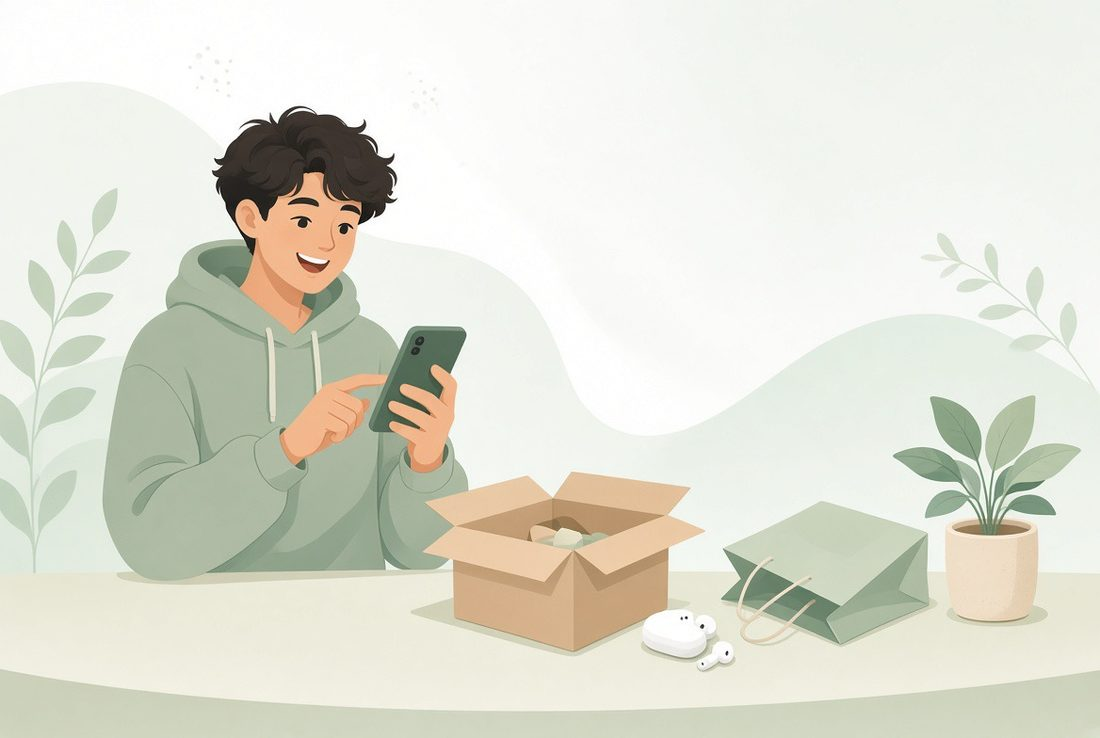
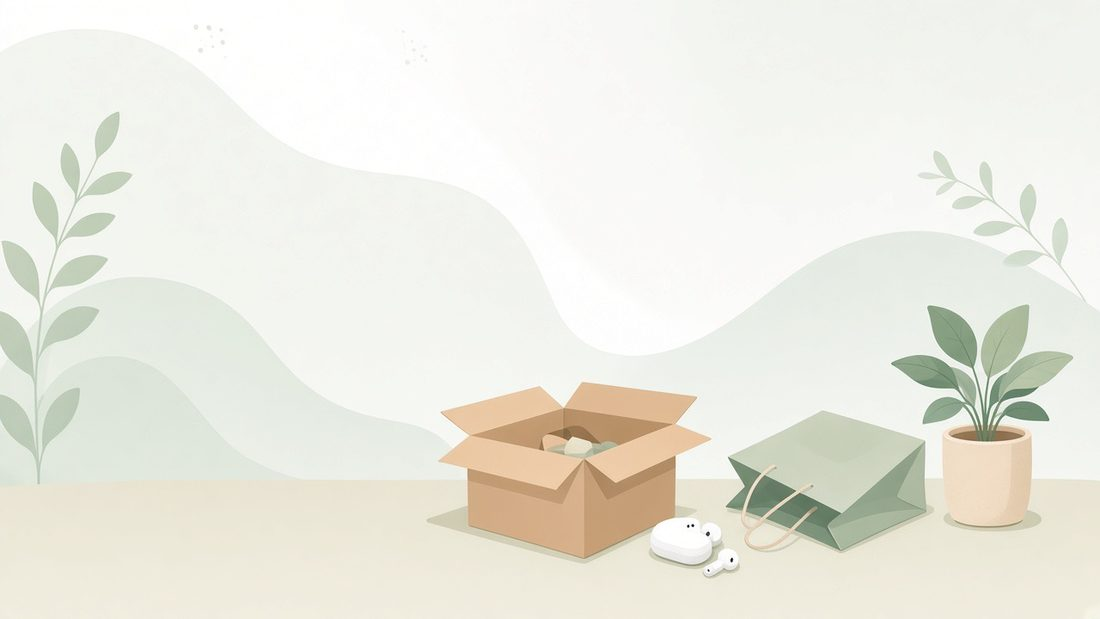
Картинка в призыве заменена
Новая: коробка, наушники, пакет и растение на столе, без человека.
Спокойнее прежней и не спорит с текстом.

Дымку слева сделал мягче — на этой картинке и так светлое поле, и
плотная подложка только гасила бы рисунок. Теперь она почти прозрачная
и лишь придерживает текст.

Весит тридцать килобайт вместо пятидесяти.

Changed region(s): [[0.0, 0.1228, 1.0, 1.0], [0.8345, 0.2456, 0.9891, 0.4604], [0.68, 0.706, 0.7109, 0.7367]]

diff --git a/frontend/src/styles.css b/frontend/src/styles.css
@@ -4195,7 +4195,7 @@ a.s-attrs{ display:block; }
      Раньше картинка масштабировалась по высоте, ширины не хватало, и
      половина блока оставалась пустой зеленью со швом посередине. */
   background:
-    linear-gradient(90deg, #E4F6EE 0%, rgba(228,246,238,.92) 42%, rgba(228,246,238,0) 72%),
+    linear-gradient(90deg, rgba(255,255,255,.82) 0%, rgba(255,255,255,.5) 38%, rgba(255,255,255,0) 64%),
     url('/promo/sell-cta.jpg') center right / cover no-repeat,
     #E4F6EE;
   min-height:150px;
